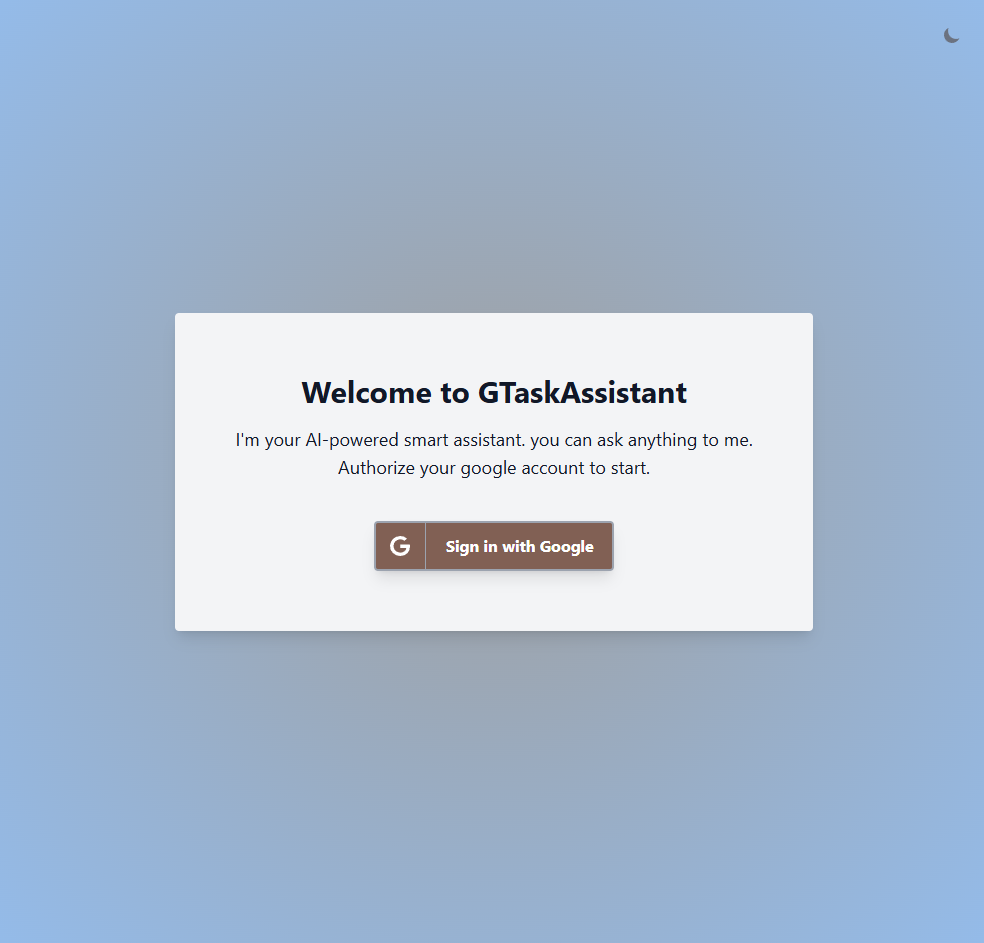
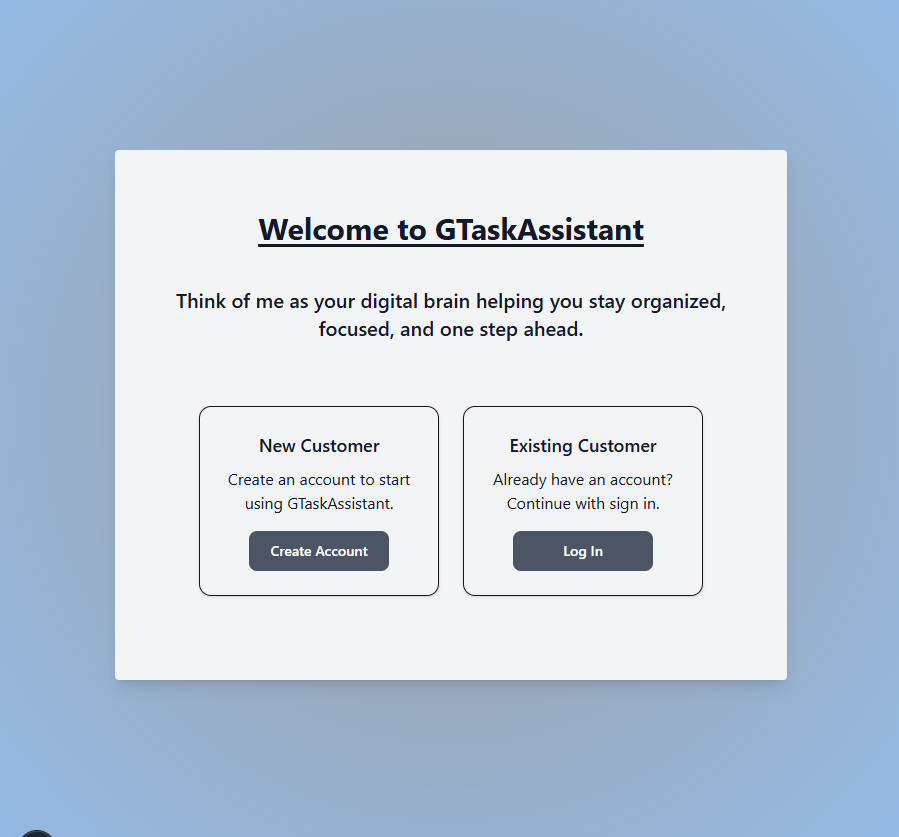
Issue fixes in OAuth Login & Update Readme file.

diff --git a/app/sign-up/page.tsx b/app/sign-up/page.tsx
@@ -8,11 +8,12 @@ import { Theme } from "@/components/theme/ThemeProvider";
 import { useRouter } from "next/navigation";
 
 export default function SignInPage() {
-  const { showLoading } = useLoading();
+  const { showLoading, hideLoading } = useLoading();
   const router = useRouter();
 
   async function onSubmit(e: React.FormEvent<HTMLFormElement>) {
     e.preventDefault();
+    showLoading("Registering...");
     const form = new FormData(e.currentTarget);
 
     const res = await fetch("/api/auth/register", {
@@ -24,6 +25,7 @@ export default function SignInPage() {
       }),
       headers: { "Content-Type": "application/json" },
     });
+    hideLoading();
 
     if (res.ok) router.push("/dashboard");
     else alert((await res.json()).error || "Failed");

diff --git a/components/auth-ui/SignInPage.tsx b/components/auth-ui/SignInPage.tsx
@@ -8,7 +8,7 @@ import { Theme } from "@/components/theme/ThemeProvider";
 import { useRouter, useSearchParams } from "next/navigation";
 
 export const SignInPage = () => {
-  const { showLoading } = useLoading();
+  const { showLoading, hideLoading } = useLoading();
   const router = useRouter();
   const next = useSearchParams().get("next") || "/dashboard";
 
@@ -27,6 +27,7 @@ export const SignInPage = () => {
         headers: { "Content-Type": "application/json" },
       });
 
+      hideLoading();
       if (result.ok) router.push(next);
       else alert((await result.json()).error || "Failed");
     } catch (error) {

diff --git a/components/home/homepage.tsx b/components/home/homepage.tsx
@@ -18,8 +18,8 @@ export const Homepage = () => {
           Welcome to GTaskAssistant
         </h1>
         <h2 className="mt-10 text-xl font-semibold">
-          I{"'"}m your AI-powered smart assistant. Designed to help you stay
-          organized and productive.
+          Think of me as your digital brain helping you stay organized, focused,
+          and one step ahead.
         </h2>
         <div className="mx-auto mt-10 grid max-w-2xl grid-cols-1 gap-6 p-6 md:grid-cols-2">
           <div className="rounded-xl border p-6 text-center shadow-sm transition hover:shadow-md">

diff --git a/lib/Auth/check.ts b/lib/Auth/check.ts
@@ -4,11 +4,16 @@ import { jwtVerify } from "jose";
 export const isAuthenticated = async (req: NextRequest) => {
   const token = req.cookies.get("gtask.token")?.value;
 
+  //   console.log(
+  //     "cookies",
+  //     req.cookies,
+  //     req.cookies.get("next-auth.session-token"),
+  //   );
+  if (req.cookies.get("next-auth.session-token")?.value) return true;
+
   if (!token) {
     return false;
   }
-
-  if (req.cookies.get("next-auth.session-token")?.value) return true;
 
   try {
     const secret = new TextEncoder().encode(process.env.JWT_SECRET!);

diff --git a/README.md b/README.md
@@ -4,35 +4,28 @@
 
 Can be used as your AI can able to schedule events, manage tasks, fetch real-time info from the web, and chat with advanced open-source models – all in one place.
 
-## Key Features
+---
 
-- Google API Integration – Access calendar, tasks, and more
-- Tool Calling – Execute actions with agentic precision
-- Live Web Search – Fetch real-time info with streaming responses
-- Local LLMs – Powered by llama.cpp for privacy and speed
-- Dark/Light Themes – Switch effortlessly between modes
-- Dev-Friendly Stack – Built with Next.js, Tailwind CSS, and NextAuth
-- Easy to extend with new AI models or add more tools
-- Can able to run offline also Private & offline-first with local models
-
-## What It Can Do
-
-- Schedule events and manage tasks
-- Chat with open-source models
-- Pull live data from the internet
-- Run fully offline with local model
-
-## Architecture Flow
+## Architecture Flow:
 
 ```mermaid
 graph TD
     A[👤 User Input] --> B[⚙ Backend]
     B --> C[🧠 LLM Response]
     C --> D[📤 Partial Data Streamed to User]
-    C --> E[🔧 Tool Call: Google API / Internet Search]
+
+    %% Decision after partial data
+    D --> J{🛠 Tools Needed?}
+
+    %% If tools are used
+    J -->|Yes| E[🔧 Tool Call: Google API / Internet Search]
     E --> F[📥 Tool Data Returned]
     F --> G[🧠 LLM Processes Tool Data]
     G --> H[📤 Final Enhanced Response Sent to User]
+    H --> I[✅ Done]
+
+    %% If no tools
+    J -->|No| I[✅ Done]
 ```
 
 ---
@@ -44,6 +37,28 @@ You can see a screenshot of GTaskAssistant below:
 ![GTaskAssistant Screenshot](./public/Screenshot-1.png)
 
 ![GTaskAssistant Screenshot](./public/Screenshot-2.png)
+
+---
+
+## Implemented Features
+
+- Google API Integration with Calendar, Gmail, and more.
+- Tool Calling that executes actions with agentic precision.
+- Real-Time Data Fetching via internet web search.
+- Local LLM (llama.cpp) Integration for privacy and Offline Use case.
+- Supports Multiple Authentication Email/Password login & Google OAuth Login.
+- Added Theme Provider with Dark/Light themes and able to customize Full-page theme options easily.
+- Its Dev-Friendly Stack Created by using Next.js, Tailwind CSS, Prisma + SQLite for database, Llama-cpp, Opensource LLM Models
+- Easy to Add new AI models, more tools, or extend APIs.
+
+## What It Can Do
+
+- Schedule events and manage tasks
+- Chat with open-source models
+- Pull live data from the internet
+- Run fully offline with local model
+
+---
 
 ## Tech Stack
 
@@ -113,6 +128,24 @@ We use **Google Custom Search API** for real-time search.
 2. Enable **Custom Search JSON API**
 3. Create a Custom Search Engine at [Programmable Search Engine](https://programmablesearchengine.google.com/)
 4. Add credentials in `.env`:
+
+## Authentication Flow
+
+1.Email/Password
+
+- Uses Prisma + bcrypt
+- Tokens stored in database for session verification
+
+2. Google OAuth
+
+- Integrated via NextAuth
+- Managed by google Access Token
+
+## Theme Customization
+
+- Toggle Dark/Light mode switch included
+- Theme changes automatically
+- EasyCustomizable Theme Provider allows adding layouts with advanced styles
 
 ## Setup Enviroinmnet variable
 
